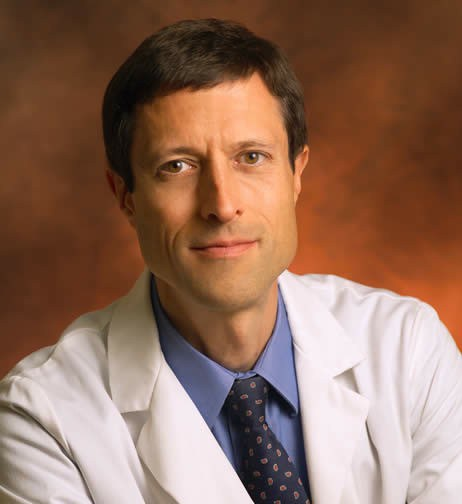
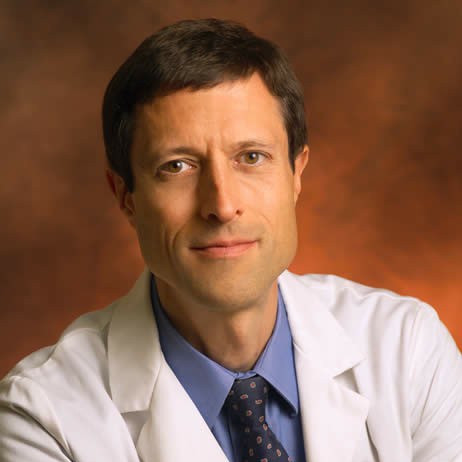
improved cards of people. Improved and standardized images of doctors to 300x300

diff --git a/src/components/resource/index.jsx b/src/components/resource/index.jsx
@@ -1,5 +1,5 @@
 import React, { Component } from 'react';
-import { Card, CardTitle, CardText, CardHeader } from 'material-ui/Card';
+import { Card, CardTitle, CardMedia, CardText, CardHeader } from 'material-ui/Card';
 import styled from 'styled-components';
 import { titleize, getLink, joinMetaData, getTitleized } from '../../utils/GeneralUtils.jsx';
 
@@ -68,34 +68,40 @@ export default class Resource extends Component {
 
 		let StyledCard = styled(Card) `
 		margin:5px auto;
+		vertical-align: top;
 		`;
-		let CardMediaDisplayed = null;
+		let DisplayCardMedia = null;
+		let isExpandable = false;
 
 		if (isMediaCard) {
-			StyledCard = styled(StyledCard)`
-			max-width:80%;
-			`;
-			const CardImg = styled.img`
-			height:200px;
+			isExpandable = true;
+			StyledCard = styled(StyledCard) `
 			max-width:100%;
-			display:block;
-			margin: 0 auto;
+			display:inline-block;
+			width:300px;
+			margin:10px;
 			`;
-			CardMediaDisplayed = (
-				<CardHeader >
-					<CardImg src={resource.profile_img} alt="Profile Image" />
-				</CardHeader>
+			DisplayCardMedia = (
+				<CardMedia
+					style={{
+
+						height: "500px;"
+					}}
+					actAsExpander
+				>
+					<img src={resource.profile_img} alt="Profile Image" />
+				</CardMedia>
 			);
 		}
 
 		return (
 			<StyledCard >
-				{CardMediaDisplayed}
+				{DisplayCardMedia}
 				<CardTitle
 					title={title}
 					subtitle={metaData}
 				/>
-				<CardText>
+				<CardText expandable={isExpandable}>
 					{resource.quote || resource.summary}
 					{video}
 				</CardText>

diff --git a/src/routes/endorsements.jsx b/src/routes/endorsements.jsx
@@ -8,7 +8,7 @@ import TabsDisplay from '../components/tabsDisplay/index.jsx';
 export default class Externalities extends Component {
 	constructor(props) {
 		super(props);
-		this.tabs = [{
+		this.athleteTabs = [{
 			label: 'Endurance',
 			resources: endorsements.athletes.endurance,
 			position: 0
@@ -37,9 +37,7 @@ export default class Externalities extends Component {
 		);
 
 		const Div = styled.div`
-		& p,h3 {
 			text-align:center;
-		}
 		`;
 		return (
 			<Div>
@@ -48,7 +46,7 @@ export default class Externalities extends Component {
 				{doctors}
 				<h2>Athletes</h2>
 				<TabsDisplay
-					tabs={this.tabs}
+					tabs={this.athleteTabs}
 					location={this.props.location}
 					history={this.props.history}
 				/>
